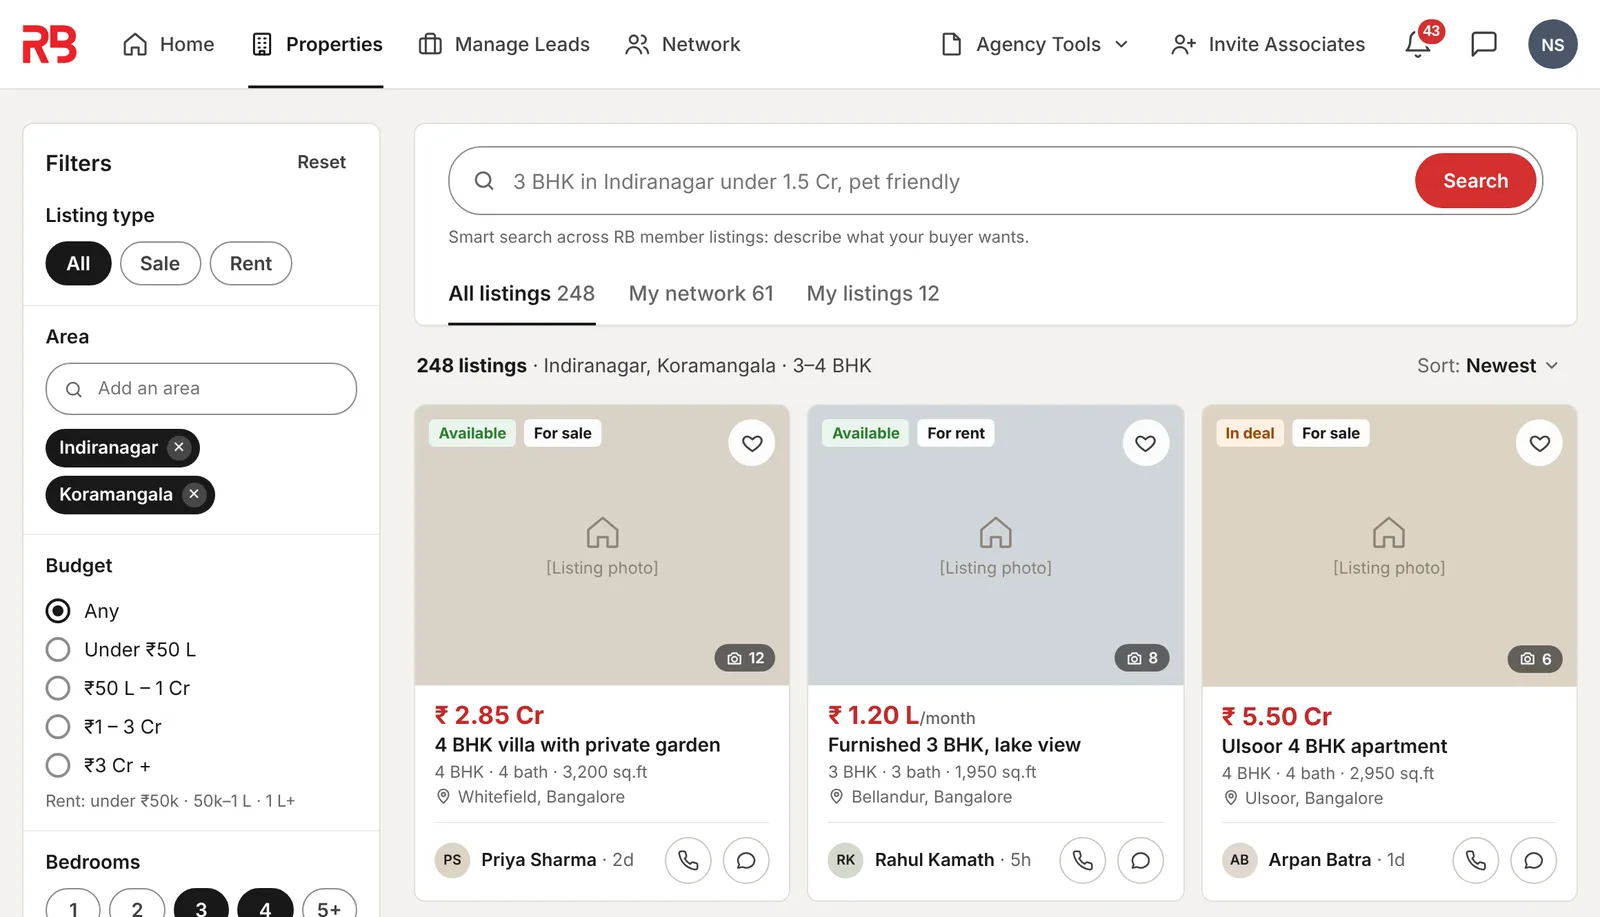
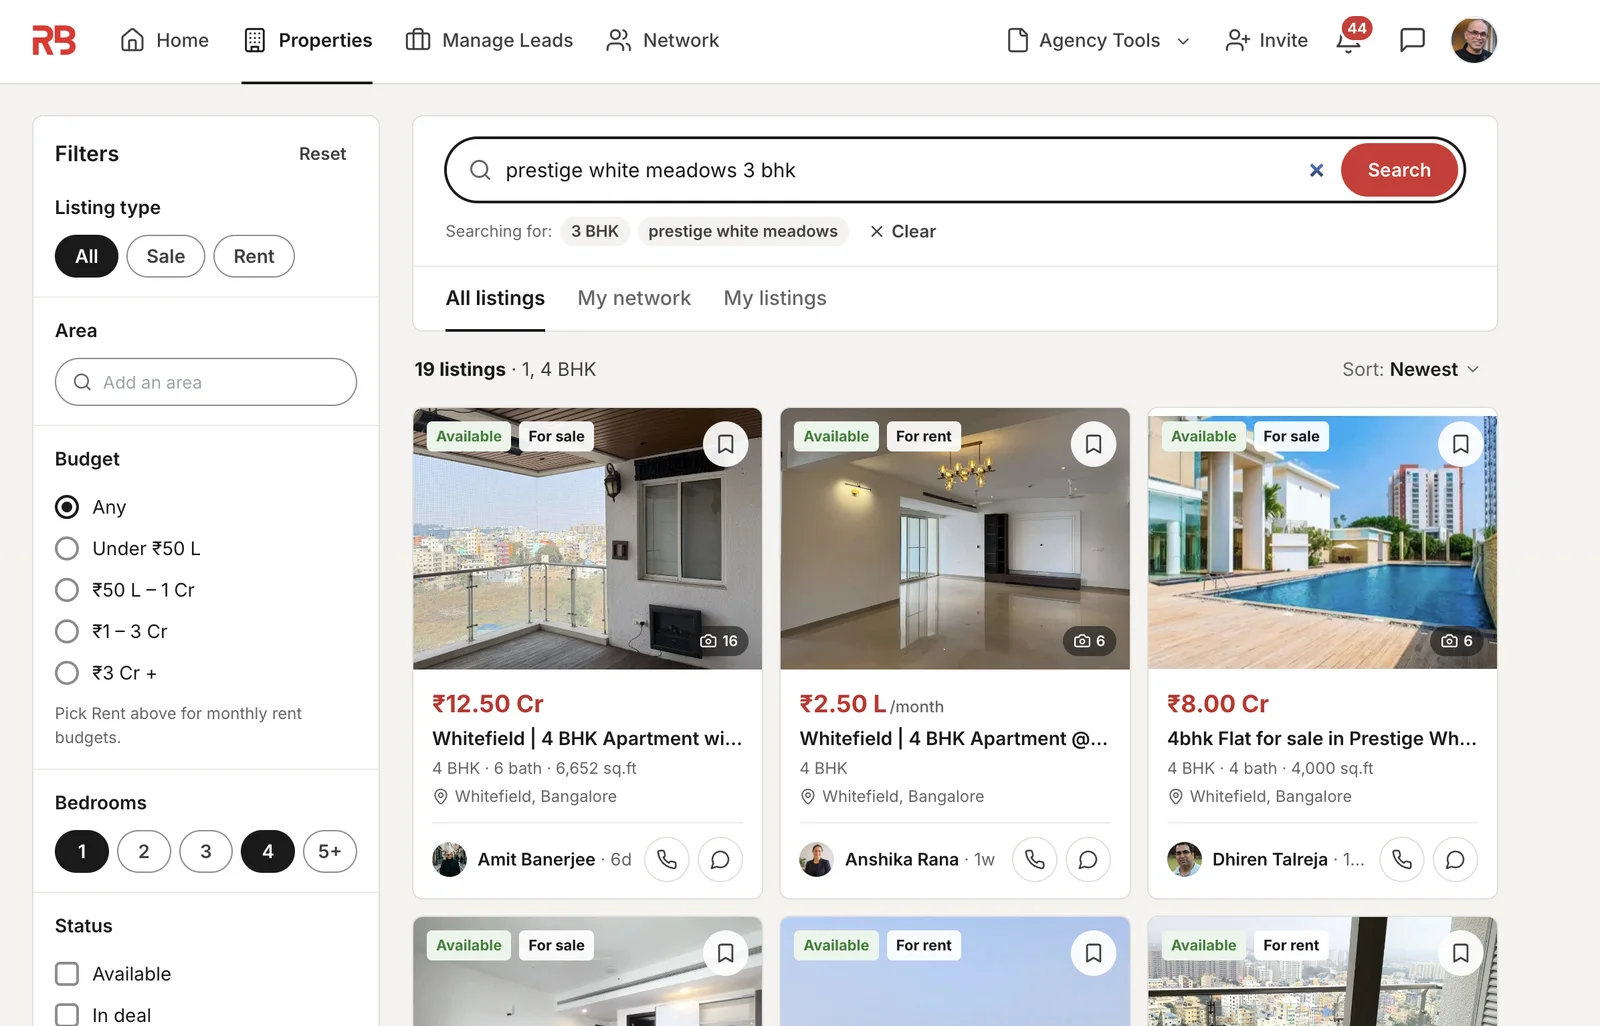
Use live app screenshots on the site and in the share image
Properties search, Network and the phone home screen are now real captures
from new.realbroker.app (pinned CREA post and affiliation badges removed).
The share image uses the live Properties screen.

Claude-Session: https://claude.ai/code/session_012QDMTaijnEENugCLvSFSN6

diff --git a/index.html b/index.html
@@ -12,7 +12,7 @@
     <meta property="og:url" content="https://realbroker.network/" />
     
     
-    <meta property="og:image" content="https://realbroker.network/og-image.png?v=2">
+    <meta property="og:image" content="https://realbroker.network/og-image.png?v=3">
     <meta property="og:image:width" content="1200">
     <meta property="og:image:height" content="630">
     
@@ -21,7 +21,7 @@
     <meta property="twitter:url" content="https://realbroker.network/" />
     <meta property="twitter:title" content="RealBroker — the private network for Bangalore’s verified brokers" />
     <meta property="twitter:description" content="Connect with quality, verified brokers across Bangalore. Search 50,000+ broker listings, find inventory for your buyers and close deals." />
-    <meta property="twitter:image" content="https://realbroker.network/og-image.png?v=2" />
+    <meta property="twitter:image" content="https://realbroker.network/og-image.png?v=3" />
     
     <meta name="author" content="RealBroker" />
     <meta name="theme-color" content="#ffffff" />
@@ -51,7 +51,7 @@
   
   
   
-  <meta name="twitter:image" content="https://realbroker.network/og-image.png?v=2">
+  <meta name="twitter:image" content="https://realbroker.network/og-image.png?v=3">
   <meta name="twitter:card" content="summary_large_image">
   <meta property="og:title" content="RealBroker — the private network for Bangalore’s verified brokers">
   <meta name="twitter:title" content="RealBroker — the private network for Bangalore’s verified brokers">

diff --git a/src/components/site/Sections.tsx b/src/components/site/Sections.tsx
@@ -63,7 +63,7 @@ export function PhoneFrame({ src, alt, width, height }: { src: string; alt: stri
 }
 
 export const SCREENS = {
-  properties: { src: '/screens/app-properties.webp', width: 1600, height: 917, url: 'new.realbroker.app/properties', alt: 'RealBroker property search with filters for area, budget and BHK' },
-  network: { src: '/screens/app-network.webp', width: 1600, height: 1075, url: 'new.realbroker.app/network', alt: 'RealBroker network page with verified member cards' },
-  week: { src: '/screens/app-your-week.webp', width: 720, height: 843, alt: 'RealBroker on a phone: search and your week of calls, WhatsApps and views' },
+  properties: { src: '/screens/app-properties.webp', width: 1600, height: 1026, url: 'new.realbroker.app/properties', alt: 'RealBroker property search with filters for area, budget and BHK' },
+  network: { src: '/screens/app-network.webp', width: 1600, height: 1092, url: 'new.realbroker.app/network', alt: 'RealBroker network page with verified member cards' },
+  week: { src: '/screens/app-your-week.webp', width: 720, height: 894, alt: 'RealBroker on a phone: search and your week of calls, WhatsApps and views' },
 };

diff --git a/src/components/seo/Seo.tsx b/src/components/seo/Seo.tsx
@@ -1,7 +1,7 @@
 import { Helmet } from "react-helmet-async";
 
 const SITE_URL = "https://realbroker.network";
-const OG_IMAGE = `${SITE_URL}/og-image.png?v=2`;
+const OG_IMAGE = `${SITE_URL}/og-image.png?v=3`;
 
 interface SeoProps {
   title: string;
